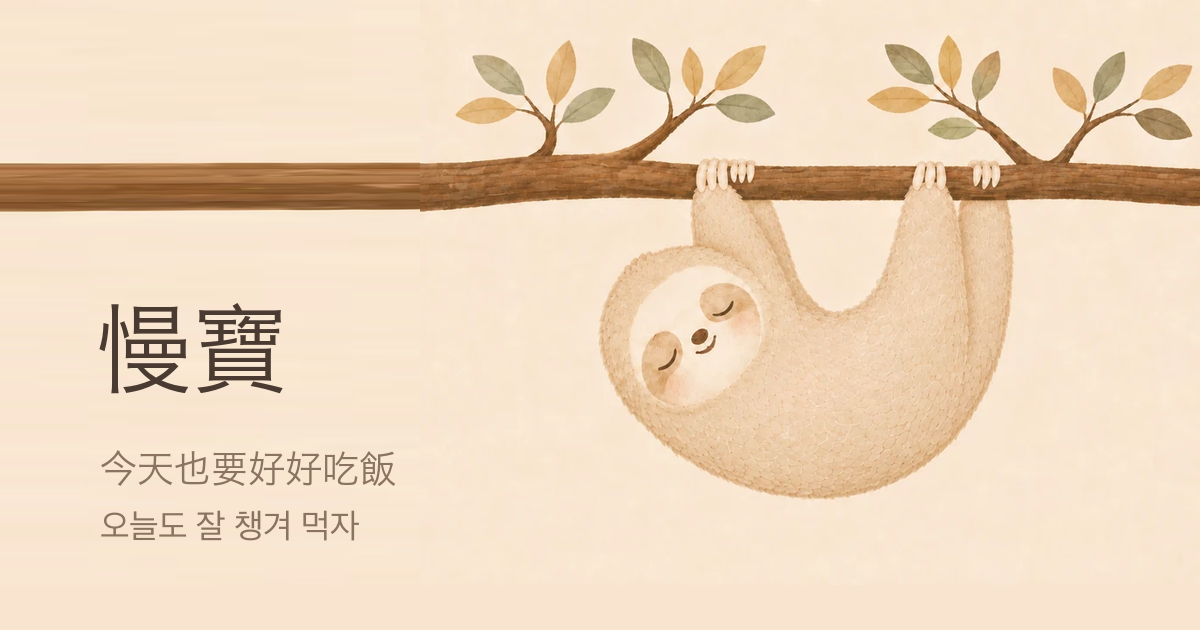
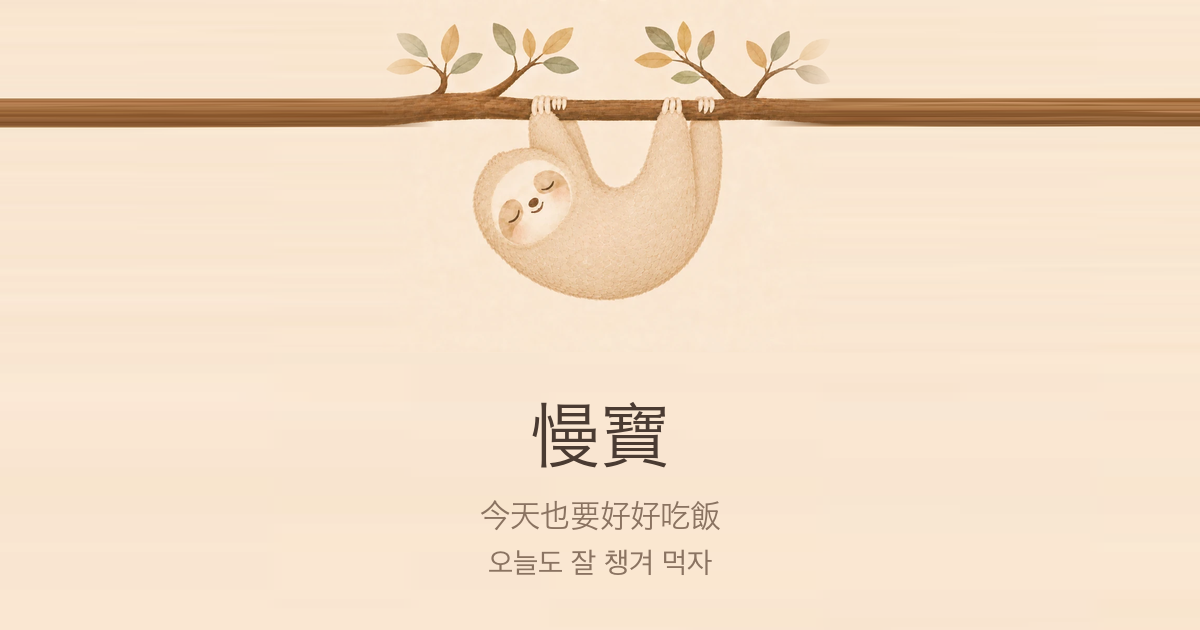
預覽圖改成置中版：重點全部塞進中間那塊正方形
⚠ **KakaoTalk 在聊天室裡是把 og:image 從正中間裁成正方形當小縮圖。**
那是它的固定版型，網頁 meta 控制不了（要大圖得走 Kakao 自己的分享 SDK）。
第一版是「字在左、慢寶在右」，正中間兩邊都不是，裁完只剩樹枝和半隻慢寶。
現在慢寶和三行字全部落在中央 630×630 內，兩側只放延伸出去的樹枝 ——
Kakao 裁完是完整的一張，LINE / iMessage / Slack 看完整的 1.91:1 也成立。
腳本會順手把那塊正方形裁出來存到暫存區，改版面時自己先看一眼。

底圖也重做了：
⛔ 純色填底 → 插畫本身有紙紋和暈影，跟純色對不上，會看到一個方塊。
✅ 底和樹枝都用插畫最左邊那 35px 橫向拉出來，紙紋一起帶過來；
   插畫本體再用 70px 羽化貼上去，接縫不是一條直線。
插畫只有 675px 高、撐不滿 630 —— 先把它最下面那段純底色往下拉長補足，
再一起縮放，樹枝粗細才跟插畫一致。

og:image 的 ?v=45 -> 46（換圖一定要一起改，否則對方看到快取的舊圖）

diff --git a/index.html b/index.html
@@ -17,7 +17,7 @@
      Kakao 的預覽框寬度不夠，會在韓文中間硬斷開。 -->
 <meta property="og:description" content="今天也要好好吃飯&#10;오늘도 잘 챙겨 먹자">
 <meta property="og:url" content="https://showbesun.github.io/bo-kitchen/">
-<meta property="og:image" content="https://showbesun.github.io/bo-kitchen/assets/og.png?v=45">
+<meta property="og:image" content="https://showbesun.github.io/bo-kitchen/assets/og.png?v=46">
 <meta property="og:image:type" content="image/png">
 <meta property="og:image:width" content="1200">
 <meta property="og:image:height" content="630">
